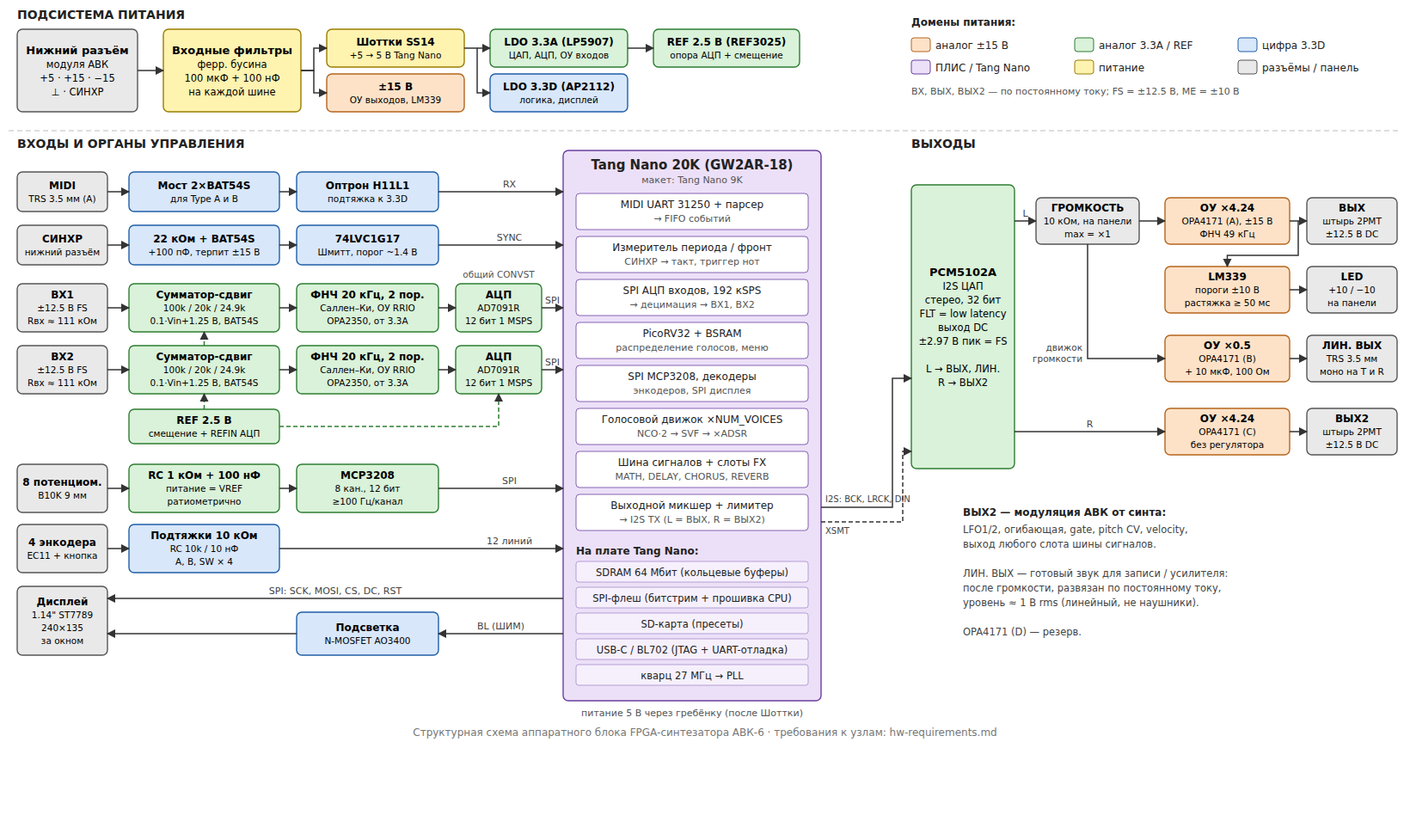
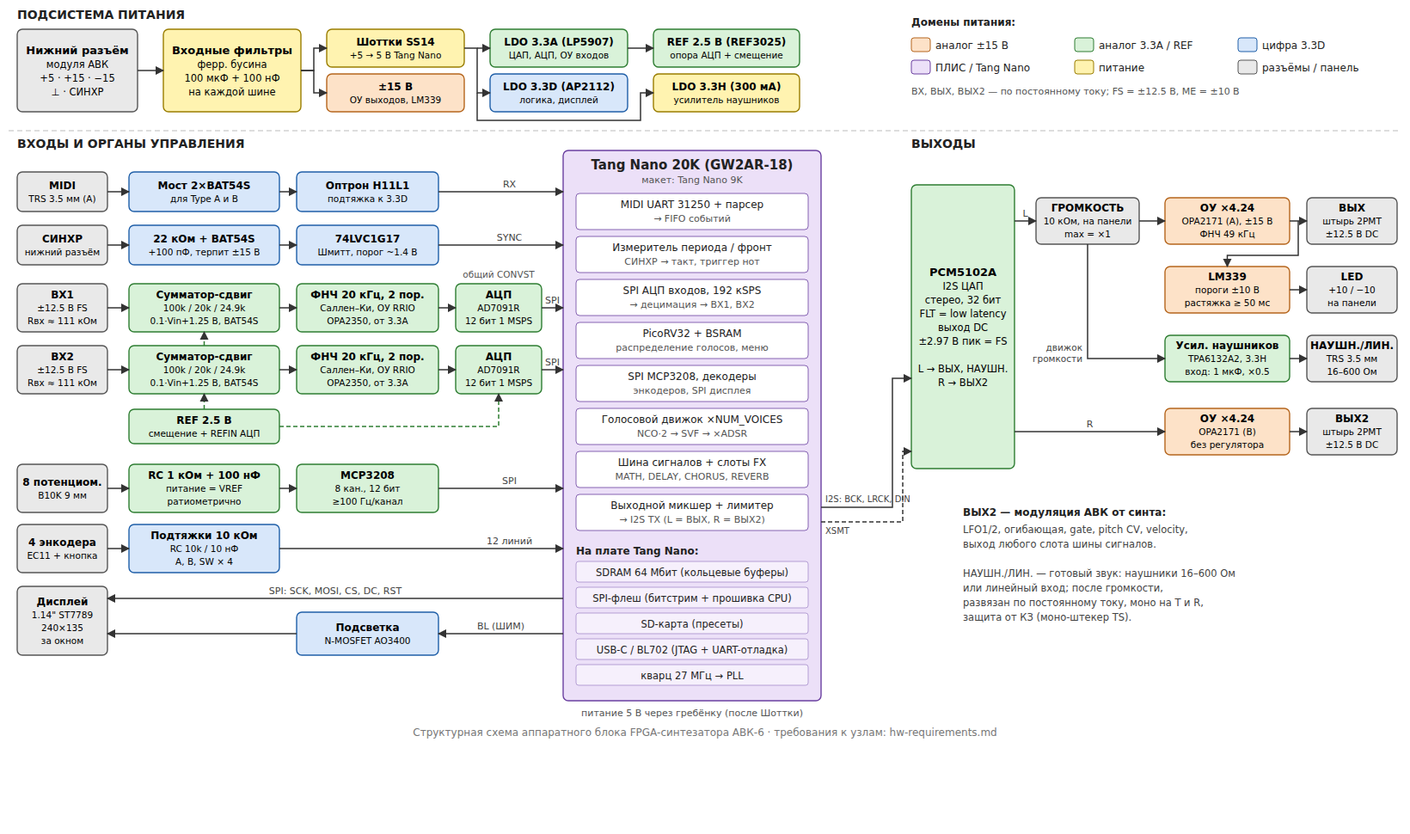
Make line output headphone-capable (TPA6132A2)
- Headphone/line output: 16-600 ohm, short-circuit protected, separate 3.3H rail
- Output op-amp back to OPA2171 (OUT, OUT2)
- Update block diagram, panel label, TRS and hardware requirements; close HO-07

Claude-Session: https://claude.ai/code/session_01JcNV2ZCXWxtNzRVWffkrjk

diff --git a/.plans/fpga-synth/tools-gen-block-diagram.py b/.plans/fpga-synth/tools-gen-block-diagram.py
@@ -47,10 +47,12 @@ box(380, 86, 160, 44, 'a15', ['±15 В', 'ОУ выходов, LM339'], True, 12
 box(570, 34, 160, 44, 'a33', ['LDO 3.3A (LP5907)', 'ЦАП, АЦП, ОУ входов'], True, 12)
 box(570, 86, 160, 44, 'd33', ['LDO 3.3D (AP2112)', 'логика, дисплей'], True, 12)
 box(760, 34, 170, 44, 'a33', ['REF 2.5 В (REF3025)', 'опора АЦП + смещение'], True, 12)
+box(760, 86, 170, 44, 'pwr', ['LDO 3.3H (300 мА)', 'усилитель наушников'], True, 12)
 arrow([(160, 82), (190, 82)])
 for yy in (56, 108):
     arrow([(350, 82), (365, 82), (365, yy), (380, yy)])
 arrow([(540, 56), (555, 56), (555, 108), (570, 108)]); arrow([(555, 56), (570, 56)])
+arrow([(555, 108), (555, 140), (745, 140), (745, 108), (760, 108)])
 arrow([(730, 56), (760, 56)])
 
 lx, ly = 1060, 30
@@ -129,14 +131,14 @@ arrow([(X2, y+55), (XC+WC, y+55)])
 
 # ---------- выходы ----------
 text(XD, 172, 'ВЫХОДЫ', 14, bold=True)
-box(XD, 215, WD, 330, 'a33', ['PCM5102A', 'I2S ЦАП', 'стерео, 32 бит', 'FLT = low latency', 'выход DC', '±2.97 В пик = FS', '', 'L → ВЫХ, ЛИН.', 'R → ВЫХ2'], True, 13)
+box(XD, 215, WD, 330, 'a33', ['PCM5102A', 'I2S ЦАП', 'стерео, 32 бит', 'FLT = low latency', 'выход DC', '±2.97 В пик = FS', '', 'L → ВЫХ, НАУШН.', 'R → ВЫХ2'], True, 13)
 arrow([(XF+WF, FY+415), (XD-22, FY+415), (XD-22, 440), (XD, 440)])
 text(XF+WF+5, FY+409, 'I2S: BCK, LRCK, DIN', 10, color='#444')
 arrow([(XF+WF, FY+432), (XD-10, FY+432), (XD-10, 525), (XD, 525)], dash=True)
 text(XF+WF+5, FY+446, 'XSMT', 10, color='#444')
 y = 230
 box(XV, y, WV, 54, 'con', ['ГРОМКОСТЬ', '10 кОм, на панели', 'max = ×1'], True, 12)
-box(XO, y, WO, 54, 'a15', ['ОУ ×4.24', 'OPA4171 (A), ±15 В', 'ФНЧ 49 кГц'], True, 12)
+box(XO, y, WO, 54, 'a15', ['ОУ ×4.24', 'OPA2171 (A), ±15 В', 'ФНЧ 49 кГц'], True, 12)
 box(XR, y, WR, 54, 'con', ['ВЫХ', 'штырь 2РМТ', '±12.5 В DC'], True, 12)
 arrow([(XD+WD, y+27), (XV, y+27)], 'L', ly=y+22); arrow([(XV+WV, y+27), (XO, y+27)]); arrow([(XO+WO, y+27), (XR, y+27)])
 y = 310
@@ -145,20 +147,19 @@ box(XR, y, WR, 54, 'con', ['LED', '+10 / −10', 'на панели'], True, 12)
 arrow([(XO+WO+10, 257), (XO+WO+10, 297), (XO+WO/2, 297), (XO+WO/2, y)])
 arrow([(XO+WO, y+27), (XR, y+27)])
 y = 390
-box(XO, y, WO, 54, 'a15', ['ОУ ×0.5', 'OPA4171 (B)', '+ 10 мкФ, 100 Ом'], True, 12)
-box(XR, y, WR, 54, 'con', ['ЛИН. ВЫХ', 'TRS 3.5 мм', 'моно на T и R'], True, 12)
+box(XO, y, WO, 54, 'a33', ['Усил. наушников', 'TPA6132A2, 3.3H', 'вход: 1 мкФ, ×0.5'], True, 12)
+box(XR, y, WR, 54, 'con', ['НАУШН./ЛИН.', 'TRS 3.5 мм', '16–600 Ом'], True, 12)
 arrow([(XV+WV/2, 284), (XV+WV/2, y+27), (XO, y+27)])
 text(XV+WV/2-6, y+18, 'движок', 10.5, 'end', '#444'); text(XV+WV/2-6, y+31, 'громкости', 10.5, 'end', '#444')
 arrow([(XO+WO, y+27), (XR, y+27)])
 y = 475
-box(XO, y, WO, 54, 'a15', ['ОУ ×4.24', 'OPA4171 (C)', 'без регулятора'], True, 12)
+box(XO, y, WO, 54, 'a15', ['ОУ ×4.24', 'OPA2171 (B)', 'без регулятора'], True, 12)
 box(XR, y, WR, 54, 'con', ['ВЫХ2', 'штырь 2РМТ', '±12.5 В DC'], True, 12)
 arrow([(XD+WD, y+27), (XO, y+27)], 'R', ly=y+22); arrow([(XO+WO, y+27), (XR, y+27)])
 
 text(XD+60, 600, 'ВЫХ2 — модуляция АВК от синта:', 12, bold=True)
 for i, t in enumerate(['LFO1/2, огибающая, gate, pitch CV, velocity,', 'выход любого слота шины сигналов.', '',
-                       'ЛИН. ВЫХ — готовый звук для записи / усилителя:', 'после громкости, развязан по постоянному току,', 'уровень ≈ 1 В rms (линейный, не наушники).',
-                       '', 'OPA4171 (D) — резерв.']):
+                       'НАУШН./ЛИН. — готовый звук: наушники 16–600 Ом', 'или линейный вход; после громкости,', 'развязан по постоянному току, моно на T и R,', 'защита от КЗ (моно-штекер TS).']):
     text(XD+60, 620 + i*17, t, 11.5, color='#444')
 
 svg = [f'<svg xmlns="http://www.w3.org/2000/svg" viewBox="0 0 {W} {H}" width="{W}" height="{H}" font-family="DejaVu Sans, Arial, sans-serif">',

diff --git a/.plans/fpga-synth/hw-requirements.md b/.plans/fpga-synth/hw-requirements.md
@@ -27,7 +27,7 @@
  Дисплей ST7789 (SPI) + подсветка (MOSFET) ─────────┘             └──────┬────────┘
                                                                          │ I2S + XSMT
                                    PCM5102A ─ L ─ ГРОМКОСТЬ ─┬─ ОУ ×4.24 ─ ВЫХ ─┬─ LM339 ─ LED +10/−10
-                                             │               └─ ОУ ×0.5 ─ 10 мкФ ─ ЛИН. ВЫХ (TRS)
+                                             │               └─ ×0.5 ─ 1 мкФ ─ TPA6132A2 ─ НАУШН./ЛИН. (TRS)
                                              └ R ──────────────── ОУ ×4.24 ─ ВЫХ2
 ```
 
@@ -53,7 +53,7 @@
 | Т-2.7 | ±15 В — на ОУ входов/выходов и компараторы. Фильтр на входе каждой шины: ферритовая бусина + 10 мкФ + 100 нФ. |
 | Т-2.8 | Развязка: 100 нФ у каждого вывода питания каждой микросхемы; 10 мкФ на каждую шину у группы. Электролит 47–100 мкФ на +5, +15, −15 на входе платы (у АВК слабые фильтры — см. статью, помехи >1 В). |
 | Т-2.9 | Защита от переполюсовки не требуется (разъём с ключом), но на ±15 В — диоды Шоттки от шины к земле в обратном направлении (защита ОУ при несимметричном включении). |
-| Т-2.10 | Бюджет тока (оценка): +5 В ≤ 400 мА (Tang Nano 20K ~200 мА, подсветка ~30 мА, LDO 3.3A/3.3D ~80 мА); +15 / −15 В ≤ 30 мА каждая. |
+| Т-2.10 | Бюджет тока (оценка): +5 В ≤ 500 мА (Tang Nano 20K ~200 мА, подсветка ~30 мА, LDO 3.3A/3.3D ~80 мА, наушники 3.3H до ~100 мА); +15 / −15 В ≤ 30 мА каждая. |
 | Т-2.11 | Контрольные точки на каждой шине: +5, +15, −15, 3.3A, 3.3D, REF2.5, ⊥ (несколько). |
 
 ## 3. Tang Nano 20K и распиновка
@@ -155,26 +155,33 @@
 
 **Рекомендуемая реализация:**
 
-- ОУ: **OPA4171** (счетверённый: A — ВЫХ, B — ЛИН. ВЫХ, C — ВЫХ2, D — резерв; ±18 В, rail-to-rail выход, малый входной ток — нужен из-за высокого сопротивления движка потенциометра). Альтернатива — 2× OPA2171; OPA2277 / TL072 хуже (выход только до ±12.5 В с малым запасом).
+- ОУ: **OPA2171** (A — ВЫХ, B — ВЫХ2; ±18 В, rail-to-rail выход, малый входной ток — нужен из-за высокого сопротивления движка потенциометра). OPA2277 / TL072 хуже (выход только до ±12.5 В с малым запасом).
 - Усиление: Rf = 32.4 кОм, Rg = 10.0 кОм (0.1 %) → ×4.24; точная подстройка программно. Cf = 100 пФ → fc ≈ 49 кГц.
 - Защита: 100 Ом последовательно в выходе, ОС снимается после резистора; 47 пФ с выхода ОУ на инвертирующий вход для устойчивости.
 - ГРОМКОСТЬ: 10 кОм, логарифмический (A) или линейный с «логарифмирующим» резистором (HO-04), 16 мм / 9 мм с крупной ручкой. Верх — ЦАП L, низ — ⊥, движок — неинвертирующий вход ОУ через 1 кОм.
 
-## 9a. Линейный выход ЛИН. ВЫХ (TRS 3.5 мм)
+## 9a. Выход на наушники / линейный НАУШН./ЛИН. (TRS 3.5 мм)
 
 | # | Требование |
 |---|---|
-| Т-9a.1 | Назначение — готовый звук для записи, усилителя, звуковой карты, без перемычек к АВК. |
-| Т-9a.2 | Источник — движок ГРОМКОСТИ (тот же сигнал, что идёт на ВЫХ, до усилителя ×4.24): громкость регулирует оба выхода. |
-| Т-9a.3 | Уровень: полная шкала ЦАП при максимальной громкости → ±1.5 В пик (≈ 1 В rms, +2 dBu) — линейный уровень. |
-| Т-9a.4 | Развязка по постоянному току (в отличие от ВЫХ): постоянная составляющая от сигналов АВК не должна попадать на линейные входы и колонки. Нижняя граница ≤ 5 Гц. |
-| Т-9a.5 | Моно-сигнал на Tip и Ring (стерео-кабель даёт звук в обоих каналах), Sleeve — ⊥. Моно-штекер (TS) замыкает Ring на ⊥ — выход должен это переносить без искажений на Tip. |
-| Т-9a.6 | Нагрузка ≥ 600 Ом; устойчивость к КЗ неограниченно долго; без щелчка > 100 мВ при включении (разряд через резистор утечки). |
-| Т-9a.7 | Наушники напрямую не поддерживаются (HO-07). |
+| Т-9a.1 | Назначение — готовый звук без перемычек к АВК: наушники напрямую, либо линейный вход звуковой карты / усилителя. |
+| Т-9a.2 | Источник — движок ГРОМКОСТИ (тот же сигнал, что идёт на ВЫХ): громкость регулирует оба выхода. |
+| Т-9a.3 | Нагрузка — наушники **16–600 Ом** или линейный вход ≥ 10 кОм. Мощность ≥ 25 мВт на 16 Ом / ≥ 30 мВт на 32 Ом на канал; напряжение ≥ 1 В rms на нагрузке ≥ 300 Ом (достаточно для 250-омных студийных наушников, ~100 дБ SPL). |
+| Т-9a.4 | Развязка по постоянному току: постоянная составляющая сигналов АВК не попадает в наушники и на линейный вход. Нижняя граница ≤ 5 Гц. Постоянное смещение на выходе ≤ 5 мВ. |
+| Т-9a.5 | Моно-сигнал на Tip и Ring **от двух отдельных каналов усилителя** (каждый наушник — свой канал; иначе нагрузка 16‖16 = 8 Ом). Sleeve — ⊥. |
+| Т-9a.6 | Устойчивость к КЗ любого выхода на ⊥ неограниченно долго (моно-штекер TS замыкает Ring) — встроенное токоограничение и тепловая защита. |
+| Т-9a.7 | Без щелчков > 10 мВ при включении/выключении (управление SD/MUTE усилителя от ПЛИС или RC-задержка). |
+| Т-9a.8 | Шум на выходе ≤ 10 мкВ rms (A-взвешенный) — в наушниках слышно всё. |
+| Т-9a.9 | Питание — отдельная шина **3.3H** (LDO 300 мА от +5 В), чтобы токи наушников не модулировали 3.3A (опора АЦП/ЦАП). |
 
-**Рекомендуемая реализация:** OPA4171 (B) от ±15 В, неинвертирующий повторитель с делителем 10 кОм / 10 кОм на входе (×0.5; входное сопротивление 20 кОм нагружает движок громкости — учесть при выборе Rвх ОУ ВЫХ, обе нагрузки параллельно ≥ 10 кОм — допустимо для PCM5102A). Выход: 10 мкФ (плёнка или биполярный электролит) последовательно, затем отдельные 100 Ом на Tip и на Ring, резистор утечки 100 кОм на ⊥ после конденсатора. fc = 1 / (2π·10 мкФ·600 Ом) ≈ 27 Гц на худшей нагрузке; на типовой 10 кОм — 1.6 Гц. При нагрузке 600 Ом допустимо 22 мкФ.
+**Рекомендуемая реализация:** **TPA6132A2** (стерео усилитель наушников DirectPath: выход симметричен относительно земли без выходных конденсаторов, встроенный генератор отрицательного питания, защита от КЗ и перегрева, 25 мВт на 16 Ом от 3.3 В, коэффициент усиления выбирается выводами G0/G1).
+- Вход: движок ГРОМКОСТИ → делитель 10 кОм / 10 кОм (×0.5: 2.1 В rms полной шкалы ЦАП → ≈ 1 В rms) → по 1 мкФ (плёнка / X7R) на входы INL и INR (оба канала — один и тот же сигнал). С входным сопротивлением TPA6132A2 нижняя граница — единицы Гц (уточнить по даташиту).
+- Усиление 0 дБ (G0/G1 по даташиту); при необходимости громче — +6 дБ.
+- Выход: OUTL → Tip, OUTR → Ring напрямую (Т-9a.5); защита от электростатики — TVS на 3.3 В или по даташиту.
+- EN (включение) — от ПЛИС через RC, включать после стабилизации питания и тактов (Т-9a.7).
+- Альтернатива под ручную пайку (TPA6132A2 — QFN-16 3×3 мм): NJM4556A (SOIC-8, ±70 мА) от ±15 В через 78L09/79L09 (±9 В), по каналу на Tip/Ring, 10 Ом последовательно в выходе, входная развязка 1 мкФ / 100 кОм. Длительное КЗ греет ОУ — защита хуже, чем у TPA6132A2.
 
-Гнездо — то же, что для MIDI (3.5 мм стерео, на панель). Разнести с MIDI по панели (MIDI слева у входов, ЛИН. ВЫХ справа у выходов) и подписать: перепутанное подключение не опасно (мост MIDI и выходные 100 Ом ограничивают ток), но молчит.
+Гнездо — 3.5 мм стерео на панель (как у MIDI). Разнести с MIDI (MIDI слева у входов, НАУШН./ЛИН. справа у выходов) и подписать: перепутанное подключение не опасно, но молчит.
 
 ## 10. Индикация перегрузки ВЫХ (+10 / −10)
 
@@ -238,7 +245,7 @@
 | HO-04 | ГРОМКОСТЬ — логарифмическая или линейная характеристика. |
 | HO-05 | Высота конструкции: стойки, длина валов, высота дисплея, место под Tang Nano с USB-C. |
 | HO-06 | Распиновка нижнего разъёма штатных модулей АВК-6. |
-| HO-07 | Нужен ли выход на наушники (отдельный усилитель, напр. TPA6132A2 / NJM4556) — пока только линейный уровень. |
+| HO-07 | ~~Выход на наушники~~ | **Решено:** нужен; TPA6132A2 от 3.3H, раздел 9a |
 
 ## 17. Предварительный перечень ключевых компонентов
 
@@ -249,14 +256,15 @@
 | АЦП потенциометров | MCP3208 | 1 |
 | Опора | REF3025 / ADR361 | 1 |
 | ОУ входов (3.3 В, RRIO) | OPA2350 / TLV9062 | 1 (+1 если Саллен-Ки на отдельных ОУ) |
-| ОУ выходов (±15 В) | OPA4171 | 1 |
+| ОУ выходов (±15 В) | OPA2171 | 1 |
+| Усилитель наушников | TPA6132A2 (альт. NJM4556A) | 1 |
 | Компараторы LED | LM339 | 1 |
 | Оптрон MIDI | H11L1 | 1 |
 | Триггер СИНХР | 74LVC1G17 | 1 |
-| LDO 3.3A / 3.3D | LP5907-3.3 / AP2112K-3.3 | 1 / 1 |
+| LDO 3.3A / 3.3D / 3.3H | LP5907-3.3 / AP2112K-3.3 / AP2112K-3.3 | 1 / 1 / 1 |
 | Шоттки | SS14, BAT54S | 1 / 5 |
 | Потенциометры | B10K 9 мм ×8, ГРОМКОСТЬ 10 кОм ×1 | 9 |
 | Энкодеры | EC11 с кнопкой | 4 |
 | Дисплей | 1.14" ST7789 240×135 | 1 |
-| Гнёзда MIDI, ЛИН. ВЫХ | 3.5 мм TRS, на панель | 2 |
+| Гнёзда MIDI, НАУШН./ЛИН. | 3.5 мм TRS, на панель | 2 |
 | Светодиоды | 3 мм красные | 2 |

diff --git a/.plans/fpga-synth/trs.md b/.plans/fpga-synth/trs.md
@@ -32,7 +32,7 @@
 
 | Шина | Потребители | Примечание |
 |---|---|---|
-| +5 В | Tang Nano (вход 5 В через диод Шоттки — развязка с USB), MCP3208, логика | Ток ограничен, величина неизвестна (O-11); бюджет ≤ 400 мА |
+| +5 В | Tang Nano (вход 5 В через диод Шоттки — развязка с USB), LDO 3.3A / 3.3D / 3.3H | Ток ограничен, величина неизвестна (O-11); бюджет ≤ 500 мА |
 | +15 / −15 В | ОУ входных/выходных каскадов, компараторы светодиодов | |
 | 3.3 В | АЦП входов, ЦАП, дисплей | Отдельный LDO от +5 В (не от Tang Nano) |
 
@@ -48,7 +48,7 @@
 | ВЫХ2 | штырь 2РМТ, нижний край: 4 мм от края, 61 мм от левого (x=61, y=86) | выход модуляции в АВК | МЕ ±10 В, FS ±12.5 В, без регулятора громкости | DC | P0 |
 | СИНХР | разъём модуля снизу (от генератора АВК) | вход, цифровой | ТТЛ? (O-01); вход терпит ±15 В, порог ~+1.5 В, триггер Шмитта | DC | P0 |
 | MIDI | панель слева, TRS 3.5 мм Type A | вход | токовая петля, оптрон 6N137 / H11L1 | | P0 |
-| ЛИН. ВЫХ | панель справа, TRS 3.5 мм | выход готового звука | ≈ 1 В rms (линейный уровень), моно на T и R, после ГРОМКОСТИ | AC (≤ 5 Гц) | P0 |
+| НАУШН./ЛИН. | панель справа, TRS 3.5 мм | выход готового звука: наушники 16–600 Ом или линейный вход | ≥ 30 мВт / 32 Ом, ≥ 1 В rms / 300 Ом; моно на T и R; после ГРОМКОСТИ; защита от КЗ | AC (≤ 5 Гц) | P0 |
 
 Координаты — от левого верхнего угла панели. Положение штырей ВХ/ВЫХ задано сеткой перемычек АВК-6 между соседними модулями.
 Отдельных штырей земли на панели нет — земля доступна в других местах АВК.
@@ -189,7 +189,7 @@ Pri: ВХ1/ВХ2 → высота, срез, громкость — **P0**; ос
                                                            │ I2S
                                         PCM5102A (стерео) ─┤
                     L: ─ Volume ─┬─ ОУ ×4.2 ─ ВЫХ ─ компараторы ─ LED ±10
-                                 └─ ОУ ×0.5 ─ AC ─ ЛИН. ВЫХ (TRS)
+                                 └─ ×0.5 ─ AC ─ TPA6132A2 ─ НАУШН./ЛИН. (TRS)
                     R: ─ ОУ ×4.2 ─ ВЫХ2
 ```
 
@@ -198,7 +198,8 @@ Pri: ВХ1/ВХ2 → высота, срез, громкость — **P0**; ос
 | ЦАП | PCM5102A | Стерео: L → ВЫХ, R → ВЫХ2. Выход DC, ±3 В пик → ОУ ×4.2 → ±12.5 В FS. Проверить отсутствие ФВЧ в тракте (O-09) |
 | АЦП входов | 2× AD7091R (12 бит, 1 MSPS, SPI, внешняя опора 2.5 В) | Одновременный запуск; отсчёты 192 кГц → децимация до 48 кГц |
 | АЦП потенциометров | MCP3208 | 8 каналов, 12 бит |
-| ОУ | OPA4171 (выходы, ±15 В); OPA2350 / TLV9062 (входы, 3.3 В) | Входной сумматор-сдвиг + ФНЧ; выходные усилители ВЫХ, ВЫХ2, ЛИН. ВЫХ |
+| ОУ | OPA2171 (выходы, ±15 В); OPA2350 / TLV9062 (входы, 3.3 В) | Входной сумматор-сдвиг + ФНЧ; выходные усилители ВЫХ, ВЫХ2 |
+| Наушники | TPA6132A2 от LDO 3.3H | Выход НАУШН./ЛИН., защита от КЗ |
 | Компараторы LED | LM393 / LM339 от ±15 В | |
 | MIDI | 6N137 или H11L1, TRS Type A | |
 | Синхровход | компаратор с гистерезисом или транзисторный ключ, защита ±15 В | |
